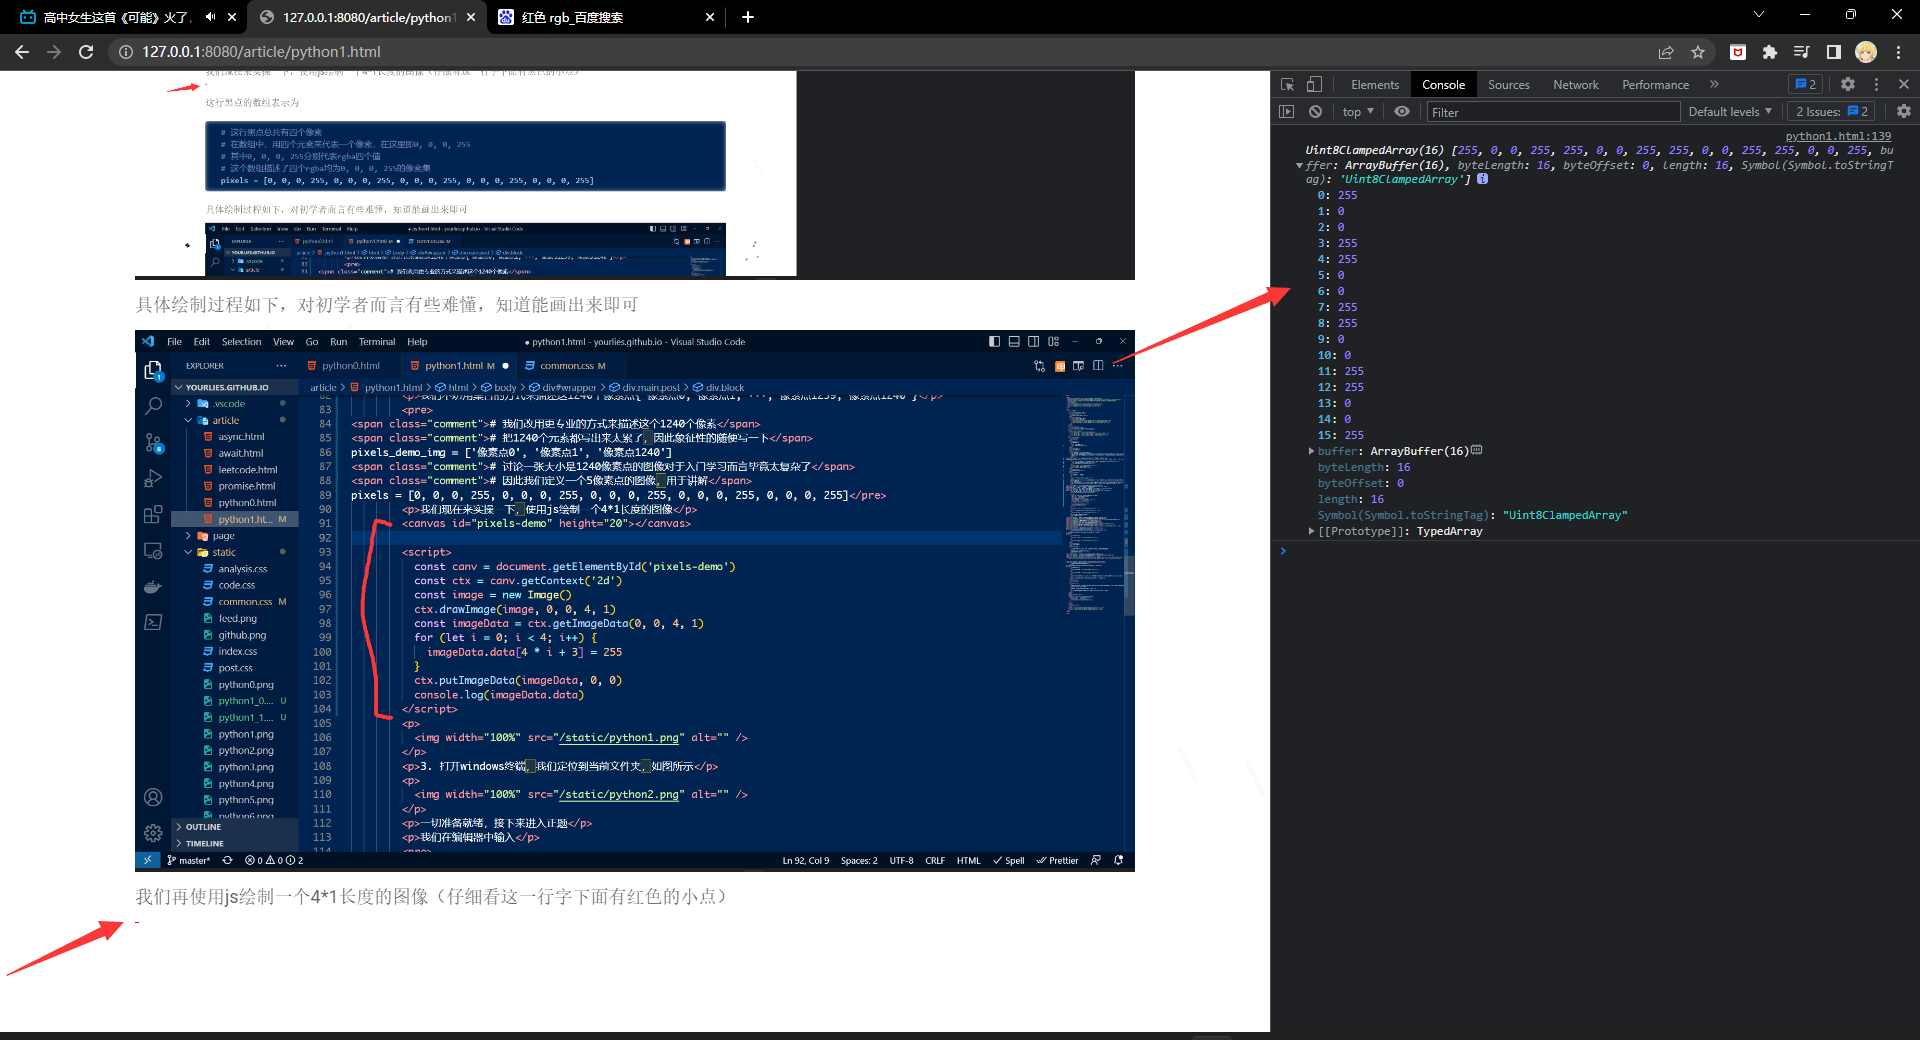
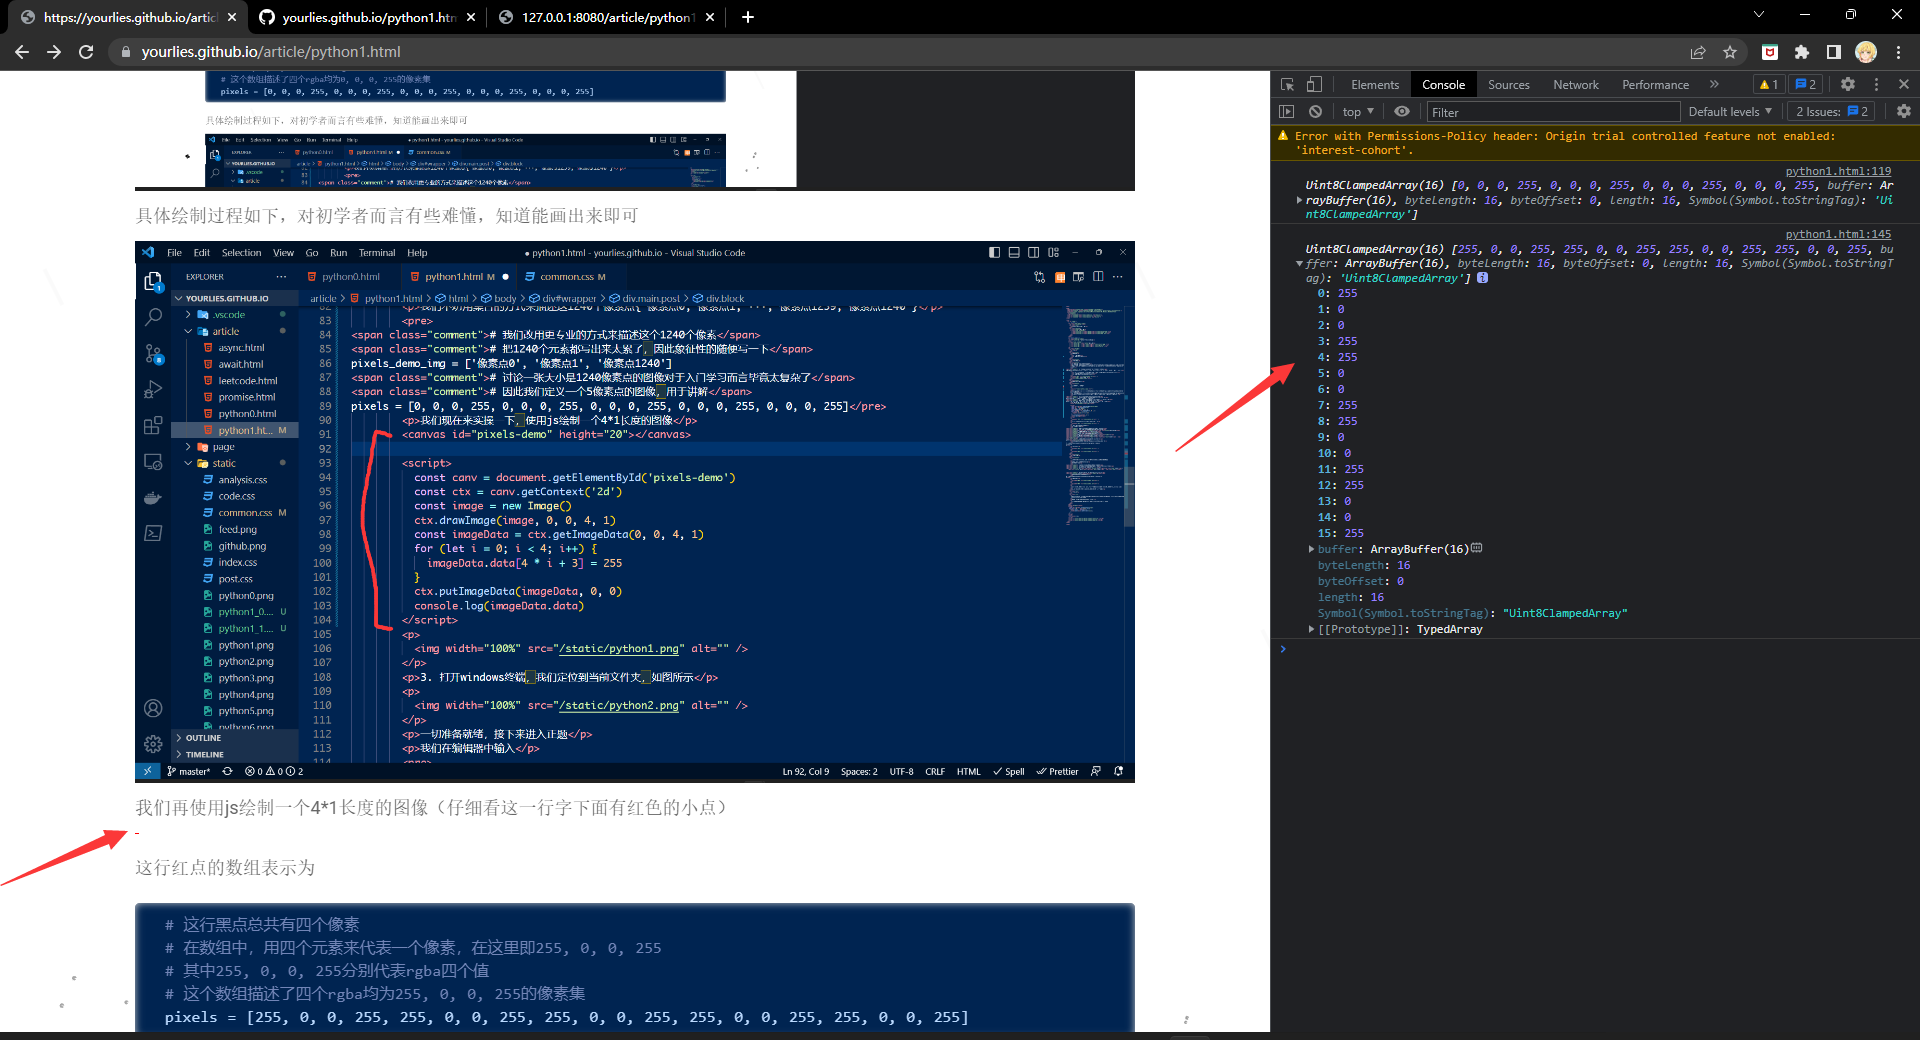
save

diff --git a/article/python1.html b/article/python1.html
@@ -126,7 +126,7 @@ pixels = [0, 0, 0, 255, 0, 0, 0, 255, 0, 0, 0, 255, 0, 0, 0, 255, 0, 0, 0, 255]<
         <canvas id="pixels-demo-red" height="20"></canvas>
         <p>这行红点的数组表示为</p>
         <pre>
-<span class="comment"># 这行黑点总共有四个像素</span>
+<span class="comment"># 这行红点总共有四个像素</span>
 <span class="comment"># 在数组中，用四个元素来代表一个像素，在这里即255, 0, 0, 255</span>
 <span class="comment"># 其中255, 0, 0, 255分别代表rgba四个值</span>
 <span class="comment"># 这个数组描述了四个rgba均为255, 0, 0, 255的像素集</span>
